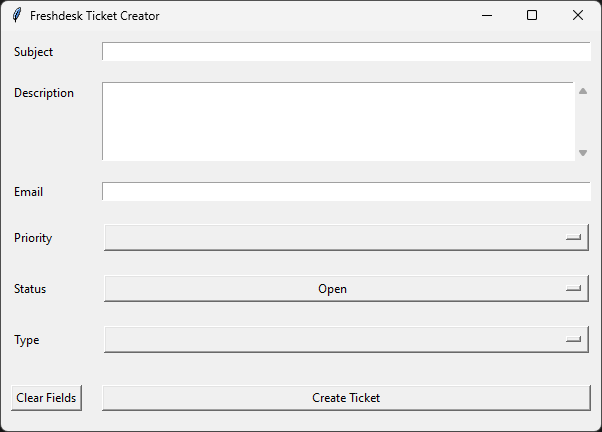
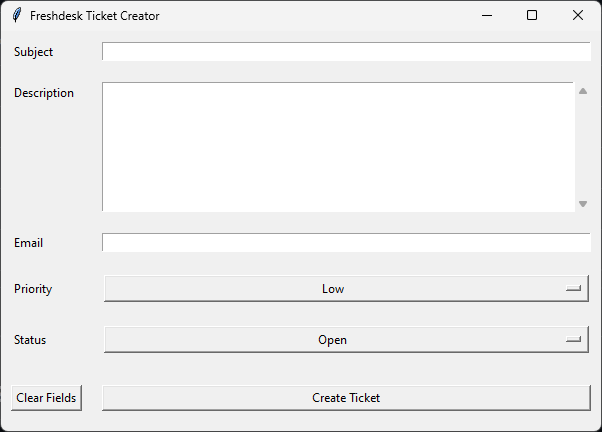
Set default values for the dropdown menus.

diff --git a/ticket_maker.py b/ticket_maker.py
@@ -22,10 +22,9 @@ def create_ticket():
     email = entry_email.get()
     priority = priority_var.get()
     status = status_var.get()
-    ticket_type = type_var.get()
 
     # Check if any field is empty
-    if not subject or not description or not email or not priority or not status or not ticket_type:
+    if not subject or not description or not email or not priority or not status:
         messagebox.showerror("Error", "All fields are required.")
         return
 
@@ -42,8 +41,7 @@ def create_ticket():
         "description": description,
         "email": email,
         "priority": priority_mapping[priority],
-        "status": status_mapping[status],
-        "type": ticket_type
+        "status": status_mapping[status]
     }
     response = requests.post(url, headers=headers, json=data, auth=(api_key, "X")) # Updated to use config file variable
     if response.status_code == 201:
@@ -57,7 +55,6 @@ def clear_fields():
     entry_email.delete(0, tk.END)
     priority_var.set("")
     status_var.set("")
-    type_var.set("")
 
 def create_and_clear():
     create_ticket()
@@ -98,7 +95,7 @@ entry_email.grid(row=2, column=1, padx=10, pady=10, sticky='ew')
 # Create and place the priority label and dropdown
 label_priority = tk.Label(root, text="Priority")
 label_priority.grid(row=3, column=0, padx=10, pady=10, sticky='w')
-priority_var = tk.StringVar()
+priority_var = tk.StringVar(value="Low") # Default to "Low"
 priority_dropdown = tk.OptionMenu(root, priority_var, "Low", "Medium", "High", "Urgent")
 priority_dropdown.grid(row=3, column=1, padx=10, pady=10, sticky='ew')
 
@@ -109,20 +106,13 @@ status_var = tk.StringVar(value="Open") # Modified code to default to "Open" sta
 status_dropdown = tk.OptionMenu(root, status_var, "Open", "Pending", "Resolved", "Closed")
 status_dropdown.grid(row=4, column=1, padx=10, pady=10, sticky='ew')
 
-# Create and place the type label and dropdown
-label_type = tk.Label(root, text="Type")
-label_type.grid(row=5, column=0, padx=10, pady=10, sticky='w')
-type_var = tk.StringVar()
-type_dropdown = tk.OptionMenu(root, type_var, "Alert", "EDR", "Problem", "Task", "Other")
-type_dropdown.grid(row=5, column=1, padx=10, pady=10, sticky='ew')
-
 # Create and place the clear button
 button_clear = tk.Button(root, text="Clear Fields", command=clear_fields)
-button_clear.grid(row=6, column=0, padx=10, pady=20, sticky='ew')
+button_clear.grid(row=5, column=0, padx=10, pady=20, sticky='ew')
 
 # Create and place the submit button
 button_submit = tk.Button(root, text="Create Ticket", command=create_and_clear)
-button_submit.grid(row=6, column=1, padx=10, pady=20, sticky='ew')
+button_submit.grid(row=5, column=1, padx=10, pady=20, sticky='ew')
 
 # Run the application
 root.mainloop()

diff --git a/README.md b/README.md
@@ -23,7 +23,6 @@ The **Freshdesk Ticket Creator** is a Python application with a graphical user i
    - **Email**: Contact email of the person reporting the issue.
    - **Priority**: Dropdown to select ticket priority (Low, Medium, High, Urgent).
    - **Status**: Dropdown to select ticket status (Open, Pending, Resolved, Closed).
-   - **Type**: Dropdown to select ticket type (Alert, EDR, Problem, Task, Other).
 
 2. On clicking "Create Ticket":
    - Validates that all fields are filled.
